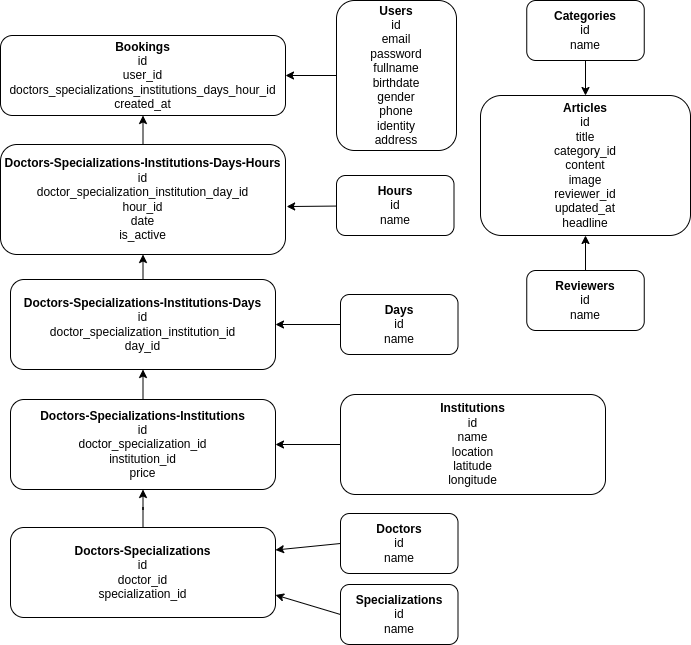
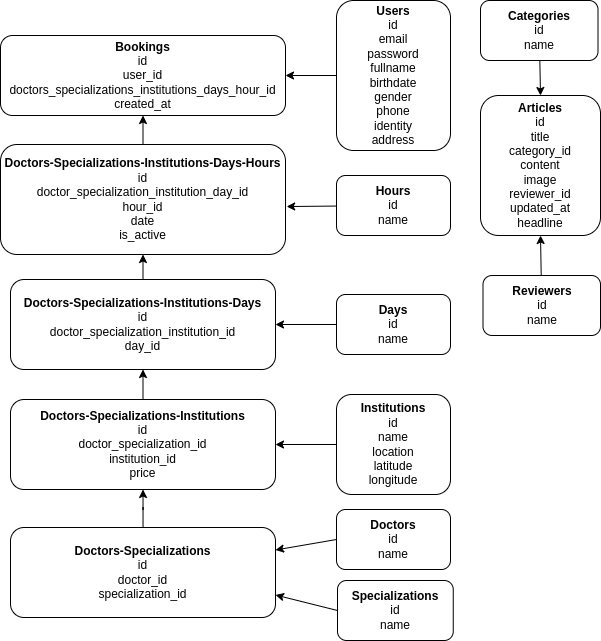
feat(doctors): only show booking history for current user

diff --git a/app/controllers/api/v1/bookings_controller.rb b/app/controllers/api/v1/bookings_controller.rb
@@ -3,7 +3,7 @@ class Api::V1::BookingsController < ApplicationController
   before_action :set_booking, only: :show
   
   def index
-    @bookings = Booking.order(params[:order]).page(params[:page]).per(params[:per_page])
+    @bookings = current_user!.bookings.order(params[:order]).page(params[:page]).per(params[:per_page])
     render json: CommonRepresenter.new(data: BookingsRepresenter.new(@bookings).as_json, meta: [@bookings.current_page, @bookings.limit_value, @bookings.total_pages, @bookings.total_count]).as_json
   rescue StandardError => e; render json: CommonRepresenter.new(code: 400, message: e.to_s).as_json, status: :bad_request
   end
@@ -34,7 +34,7 @@ class Api::V1::BookingsController < ApplicationController
   end
 
   def set_booking
-    @booking = Booking.find(params[:id])
+    @booking = current_user!.bookings.find(params[:id])
   rescue StandardError => e; render json: CommonRepresenter.new(code: 400, message: e.to_s).as_json, status: :bad_request
   end
 end

diff --git a/config/routes.rb b/config/routes.rb
@@ -10,7 +10,7 @@ Rails.application.routes.draw do
       resources :reviewers, only: %i[index create show]
       resources :articles, only: %i[index create show]
       
-      resources :doc_spe_ins_day_hous, only: %i[index]
+      resources :doc_spe_ins_day_hous, only: %i[index show]
       resources :bookings, only: %i[index create show]
       
       resources :specializations, only: %i[index create show]

diff --git a/README.md b/README.md
@@ -1,24 +1,5 @@
 # README
 
-This README would normally document whatever steps are necessary to get the
-application up and running.
+## Database Design
 
-Things you may want to cover:
-
-* Ruby version
-
-* System dependencies
-
-* Configuration
-
-* Database creation
-
-* Database initialization
-
-* How to run the test suite
-
-* Services (job queues, cache servers, search engines, etc.)
-
-* Deployment instructions
-
-* ...
+![image](https://github.com/choniyuazwan/alodokter-rakamin-fullstack-grup3/blob/master/public/database-design.png?raw=true)
